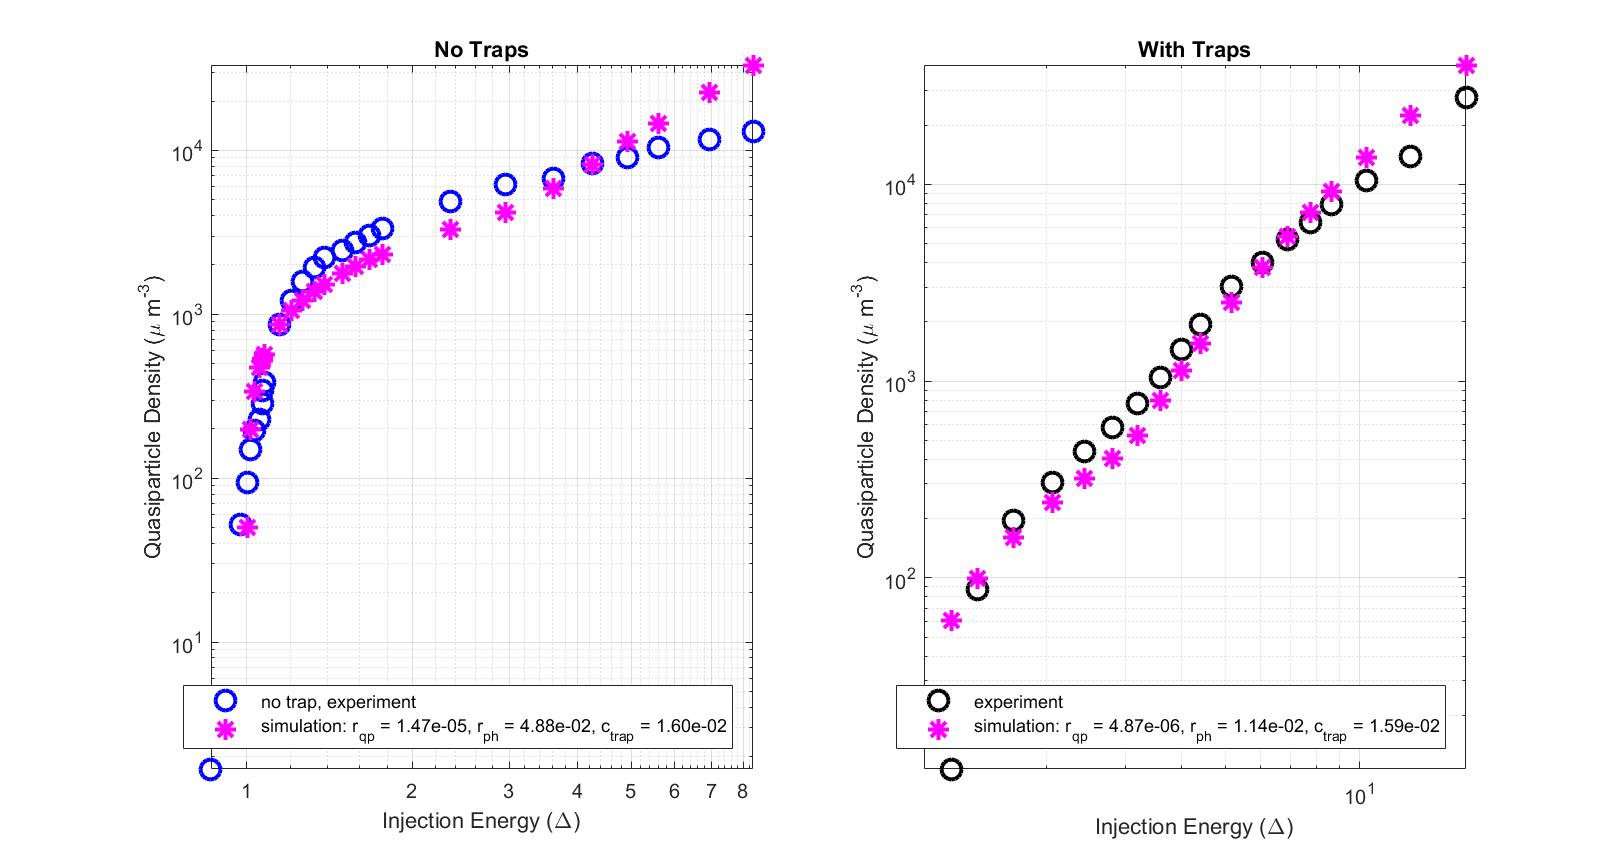
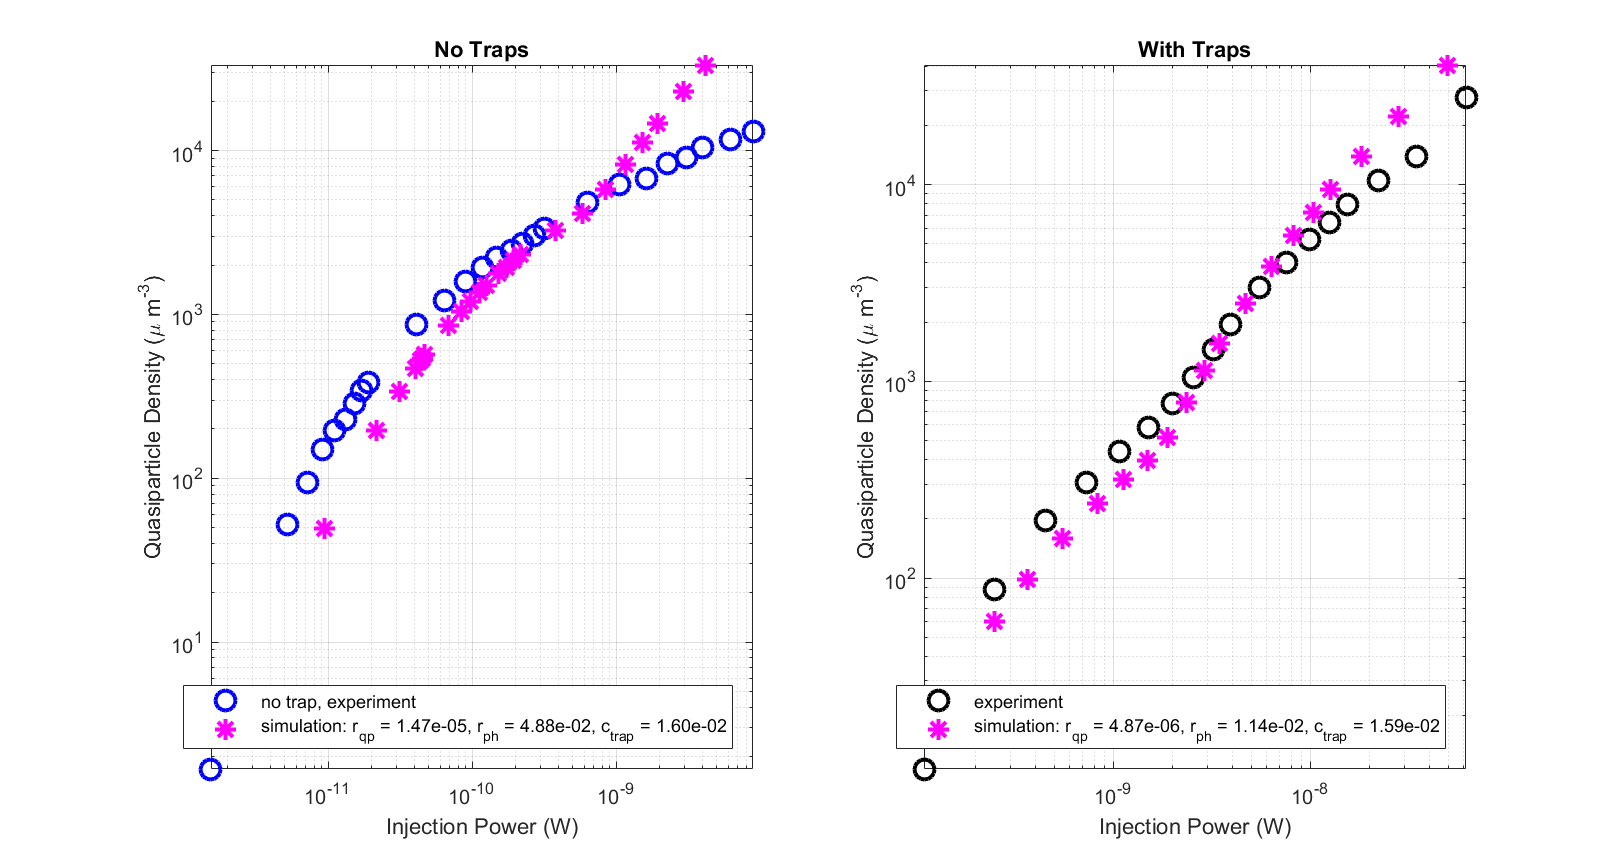
Update the quasiparticle scripts

diff --git a/Simulations/Quasiparticles/phononSpectra.m b/Simulations/Quasiparticles/phononSpectra.m
@@ -1,6 +1,6 @@
 function [t, e, n, f, n_qp, r_qp, Ptot, Psct, Prec, Psct2D,...
     P_sct, P_rec] = ...
-    phononSpectra(Tph, tspan, V, rqp, rph, c)
+    phononSpectra(Tph, tspan, V, rqp, rph, c, vol, N)
 %phononSpectra(Simple trapping, quasi-0D model.
 % [t, e, n, f, n_qp, r_qp, P] = 
 %   phononMediatedQuasi0DModel(Tph, tspan, V, r, c)
@@ -19,19 +19,19 @@ function [t, e, n, f, n_qp, r_qp, Ptot, Psct, Prec, Psct2D,...
 %      of n_{cp},
 %      c is the trapping (capture) rate in 1/\tau_0, assuming n and n_qp
 %      in units of n_{cp},
+%      vol is the volume in um^3,
+%      N is the umber of energy bins (50-1000 or so),
 %      plot_flag is an optional parameter that controls plot creation.
 %   The output parameters:
 %      t is time in \tau_0,
 %      e are energies of the bins in \Delta,
-%      n are the quasiparticle densities in n_{cp}, size(n) == [length(t),
+%      n are the quasiparticle densities in  in um^-3,, size(n) == [length(t),
 %      length(e)],
 %      f are the occupational numbers, size(f) == size(n),
 %      n_qp is the non-equilibrium quasiparticle density,
 %      length(n_qp) == length(t),
-%      r_qp is the total injection rate in 1 / \tau_0, assuming n and n_qp
-%      in units n_{cp}, single number,
-%      P is the total injected power in \Delta / \tau_0, assuming n and
-%      n_qp in units n_{cp}, single number.
+%      r_qp is the total injection rate in 1 / \tau_0, single number,
+%      P is the total injected power in \Delta / \tau_0, single number.
 
 % Constants.
 kB = 1.38064852e-23; % J / K
@@ -47,19 +47,16 @@ Tph = kB * Tph / delta; % in units of \Delta
 % Tc = kB * Tc / delta;
 Tc = 1 / 1.764; % \delta/(K_B * T_c) = 1.764 at T = 0 K BCS result
 
-Volume = 250; % um^3
 tau_0 = 438e-9; % sec
 ncp = 4e6; % n_{cp} for aluminum is 4e6 \micro m^-3
                      % C. Wang et al. Nature Comm. 5, 5836 (2014)
 
-power_calib = delta * ncp * Volume / tau_0;
+power_calib = delta * ncp * vol / tau_0;
                      
 % Debye temperature.
 % TD = 428; % K
 % TD = kB * TD/ delta; % in units of \Delta
 
-% Number of energy bins.
-N = 500;
 % Maximum energy.
 max_e = 2 * max(V) - 1;
 
@@ -106,7 +103,7 @@ f_inj = @(e_inj) interp1(e, f_inj, e_inj);
 f = n ./ (ones(length(t), 1) * rho_de');
 
 % Non-equlibrium quasipatical density.
-n_qp = 2 * sum(n, 2);
+n_qp = 2 * ncp * sum(n, 2);
 
 % Bins indices the quasiparticles are injected to.
 if length(V) == 2
@@ -131,6 +128,36 @@ P_sct_in = power_calib * sum(e .* (Gs_in * n_inj'));
 P_sct_out = power_calib * sum(e .* Gs_out .* n_inj');
 P_sct = P_sct_out - P_sct_in;
 P_rec = power_calib * sum(2 * e .* n_inj' .* (Gr * n_inj'));
+
+Pt_sct = NaN(size(n, 1), 1);
+Pt_sct2D = NaN(size(n, 1), 1);
+Pt_rec = NaN(size(n, 1), 1);
+f(f < 0) = 0;
+for k = 1:size(n, 1)
+    f_inj = f(k, :);
+    f_inj = @(e_inj) interp1(e, f_inj, e_inj);
+    [~, Omega_rec, N_Omega_rec] = RecombinationInjection(e, de, f_inj, V, rph, Tc, Tph);
+    [~, Omega_sct, N_Omega_sct] = ScatteringInjection(e, de, f_inj, V, rph, Tc, Tph);
+    Pt_sct(k) = power_calib * trapz(Omega_sct, N_Omega_sct .* Omega_sct);
+    N_Omega_sct = N_Omega_sct(Omega_sct > 2);
+    Omega_sct = Omega_sct(Omega_sct > 2);
+    Pt_sct2D(k) = power_calib * trapz(Omega_sct, N_Omega_sct .* Omega_sct);
+    Pt_rec(k) = power_calib * trapz(Omega_rec, N_Omega_rec .* Omega_rec);
+end
+
+figure
+t = t - min(t);
+plot(t, Pt_sct ./ Ptot, t, Pt_rec ./ Ptot, t, (Pt_sct + Pt_rec) ./ Ptot,...
+     t, Pt_sct2D ./ Ptot, t, (Pt_sct2D + Pt_rec) ./ Ptot, 'LineWidth', 2)
+xlabel('Time (\tau_0)', 'FontSize', 14)
+ylabel('Normalized Power P / P_{total}', 'FontSize', 14)
+legend('scattering', 'recombination',...
+       'scattering + recombination', 'scattering above 2\Delta',...
+       'scattering above 2\Delta + recombination')
+title(['V = ',  num2str(V), ' \Delta/e']) 
+axis tight
+grid on
+
 end
 
 function normalized_density = rho(e)

diff --git a/Simulations/Quasiparticles/twoStageQuasi0DModel.m b/Simulations/Quasiparticles/twoStageQuasi0DModel.m
@@ -18,18 +18,18 @@ function [t, e, n, f, n_qp, r_qp, P] = ...
 %      of n_{cp},
 %      c is the trapping (capture) rate in 1/\tau_0, assuming n and n_qp
 %      in units of n_{cp},
+%      vol is the volume in um^3,
 %      N is the umber of energy bins (50-1000 or so),
 %      plot_flag is an optional parameter that controls plot creation.
 %   The output parameters:
 %      t is time in \tau_0,
 %      e are energies of the bins in \Delta,
-%      n are the quasiparticle densities in n_{cp}, size(n) == [length(t),
+%      n are the quasiparticle densities in um^-3, size(n) == [length(t),
 %      length(e)],
 %      f are the occupational numbers, size(f) == size(n),
 %      n_qp is the non-equilibrium quasiparticle density,
 %      length(n_qp) == length(t),
-%      r_qp is the total injection rate in 1 / \tau_0, assuming n and n_qp
-%      in units n_{cp}, single number,
+%      r_qp is the total injection rate in 1 / \tau_0, single number,
 %      P is the total injected power in W, single number.
 
 % Constants.
@@ -85,7 +85,7 @@ n_inj = n(end, :);
 % Occupational numbers.
 f_inj = n_inj ./ rho_de';
 f_inj(f_inj < 0) = 0;
-f_inj = @(e_inj) interp1(e, f_inj, e_inj, 'spline', 'extrap');
+f_inj = @(e_inj) interp1(e, f_inj, e_inj);
 
 [Rph_rec, Omega_rec, N_Omega_rec] = RecombinationInjection(e, de, f_inj, V, rph, Tc, Tph);
 [Rph_sct, Omega_sct, N_Omega_sct] = ScatteringInjection(e, de, f_inj, V, rph, Tc, Tph);
@@ -112,10 +112,13 @@ end
 
 Gtr = Gtrapping(e, Tph, Tc, c);
 
+options = odeset('AbsTol', 1e-20);
+[t, n] = ode15s(@(t, n) quasiparticleODE(t, n,...
+    Gs_in, Gs_out, Gr, Gtr, Rph_sct + Rph_rec), tspan, n0, options);
+
 % Generate a plot.
 if plot_flag
-    f0 = 1 ./ (exp(e / Tph) + 1);
-    n0 = rho_de .* f0;
+    n0 = n_inj';
     figure
     plot(e, Gs_in * n0 ./ de, e,  Gs_out .* n0 ./ de,...
          e, n0 .* ( Gr * n0) ./ de,...
@@ -138,10 +141,6 @@ if plot_flag
     axis tight
     grid on
 end
-
-options = odeset('AbsTol', 1e-20);
-[t, n] = ode15s(@(t, n) quasiparticleODE(t, n,...
-    Gs_in, Gs_out, Gr, Gtr, Rph_sct + Rph_rec), tspan, n0, options);
 
 % Occupational numbers.
 f = n ./ (ones(length(t), 1) * rho_de');
@@ -230,7 +229,7 @@ function R = DirectInjection(e, rho_de, V, r)
 end
 
 function [R, Omega, N_Omega] = ScatteringInjection(e_inj, de_inj, f_inj, V, r, Tc, Tph)
-    N = 5 * length(e_inj);
+    N = 3 * length(e_inj);
     Omega = linspace(0, max(V) - 1, N);
     e_final = linspace(min(e_inj), max(e_inj), N)';
     [Omega, e] = meshgrid(Omega, e_final);
@@ -249,7 +248,7 @@ function [R, Omega, N_Omega] = ScatteringInjection(e_inj, de_inj, f_inj, V, r, T
 end
 
 function [R, Omega, N_Omega] = RecombinationInjection(e_inj, de_inj, f_inj, V, r, Tc, Tph)
-    N = 5 * length(e_inj);
+    N = 3 * length(e_inj);
     Omega = linspace(2, 2 * max(V), N);
     e_final = linspace(min(e_inj), max(e_inj), N)';
     [Omega, e] = meshgrid(Omega, e_final);

diff --git a/Simulations/Quasiparticles/plotPhononSpectra.m b/Simulations/Quasiparticles/plotPhononSpectra.m
@@ -1,14 +1,19 @@
 function plotPhononSpectra
 %plotPhononSpectra Plot phonon spectra.
 
-r_direct = .09e-5; % in units of 1 / \tau_0 %(assuming n_{qp} in units of n_{cp})
+r_direct = 1.5e-05; % in units of 1 / \tau_0 %(assuming n_{qp} in units of n_{cp})
 r_phonon = 1; % in units of 1 / \tau_0 %(assuming n_{qp} in units of n_{cp})
 c = 0; % trapping rate in units of 1 / \tau_0
+vol = 3.044e+04; % um^3
 
 Tph = 0.051; % K
-tspan = [-500, 0]; % in units of \tau_0
+tspan = [-250, 0]; % in units of \tau_0
 
-V = 1.1:.5:10;
+% V = 1.1:2:5;
+V = [1.25, 2, 3, 4];
+
+% Number of energy bins.
+N = 500;
 
 Ptot = NaN(size(V));
 Psct2D = NaN(size(V));
@@ -20,7 +25,7 @@ for k = 1:length(V)
     if V(k) > 1
         [~, ~, ~, ~, ~, ~, Ptot(k), Psct(k), Prec(k), Psct2D(k),...
             P_sct(k), P_rec(k)] = phononSpectra(Tph, tspan,...
-            V(k), r_direct, r_phonon, c);
+            V(k), r_direct, r_phonon, c, vol, N);
     end
     k
 end
@@ -33,6 +38,7 @@ ylabel('Normalized Power P / P_{total}', 'FontSize', 14)
 legend('scattering', 'recombination',...
        'scattering + recombination', 'scattering above 2\Delta',...
        'scattering above 2\Delta + recombination')
+title('Integrated Phonon Channel Power')
 axis tight
 grid on
 
@@ -41,6 +47,7 @@ plot(V, P_sct ./ Ptot, V, P_rec ./ Ptot,...
     V, (P_sct + P_rec) ./ Ptot, 'LineWidth', 2)
 xlabel('Voltage (\Delta)', 'FontSize', 14)
 ylabel('Normalized Power P / P_{total}', 'FontSize', 14)
+title('Integrated Power in ODE RHS')
 legend('scattering', 'recombination',...
     'scattering + recombination')
 axis tight
@@ -54,6 +61,7 @@ ylabel('Normalized Power P / P_{total}', 'FontSize', 14)
 legend('scattering', 'recombination',...
        'scattering + recombination', 'scattering above 2\Delta',...
        'scattering above 2\Delta + recombination')
+title('Integrated Phonon Channel Power')
 axis tight
 grid on
 
@@ -62,6 +70,7 @@ semilogx(Ptot, P_sct ./ Ptot, Ptot, P_rec ./ Ptot, Ptot,...
     (P_sct + P_rec) ./ Ptot, 'LineWidth', 2)
 xlabel('P_{total} (W)', 'FontSize', 14)
 ylabel('Normalized Power P / P_{total}', 'FontSize', 14)
+title('Integrated Power in ODE RHS')
 legend('scattering', 'recombination',...
     'scattering + recombination')
 axis tight

diff --git a/Simulations/Quasiparticles/plotSingleSolution.m b/Simulations/Quasiparticles/plotSingleSolution.m
@@ -14,12 +14,14 @@ r_phonon = 1; % in units of 1 / \tau_0 %(assuming n_{qp} in units of n_{cp})
 c = 0; % trapping rate in units of 1 / \tau_0
 vol = 1e5; % um^- 3
 
+N = 1000;
+
 Tph = 0.051; % K
 tspan = [-500, -1]; % in units of \tau_0
 
 V = 4;
 
-[t, e, n, f, n_qp] = twoStageQuasi0DModel(Tph, tspan, V, r_direct, r_phonon, c, vol, true);
+[t, e, n, f, n_qp] = twoStageQuasi0DModel(Tph, tspan, V, r_direct, r_phonon, c, vol, N, true);
 
 figure
 plot(t, n_qp, 'LineWidth', 3)
